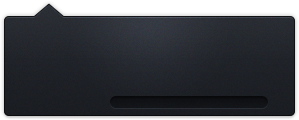
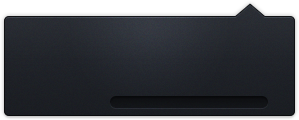
flipped the popover window so it will be visible even with very few items in the status bar

Changed region(s): [[0.7826, 0.025, 0.903, 0.15], [0.0903, 0.025, 0.2107, 0.15]]

diff --git a/Tunebar/TBPopoverWindowController.h b/Tunebar/TBPopoverWindowController.h
@@ -7,7 +7,7 @@
 #define PROGRESS_BAR_Y 14
 #define PROGRESS_BAR_HEIGHT 8.0
 #define SCROLL_SPEED 0.09
-#define ARROW_POSITION 100.0
+#define ARROW_POSITION -102.0
 
 @class TBArtworkImageView, TBPreferencesWindowController, TBProgressBarView, TBScrollTextView;
 
